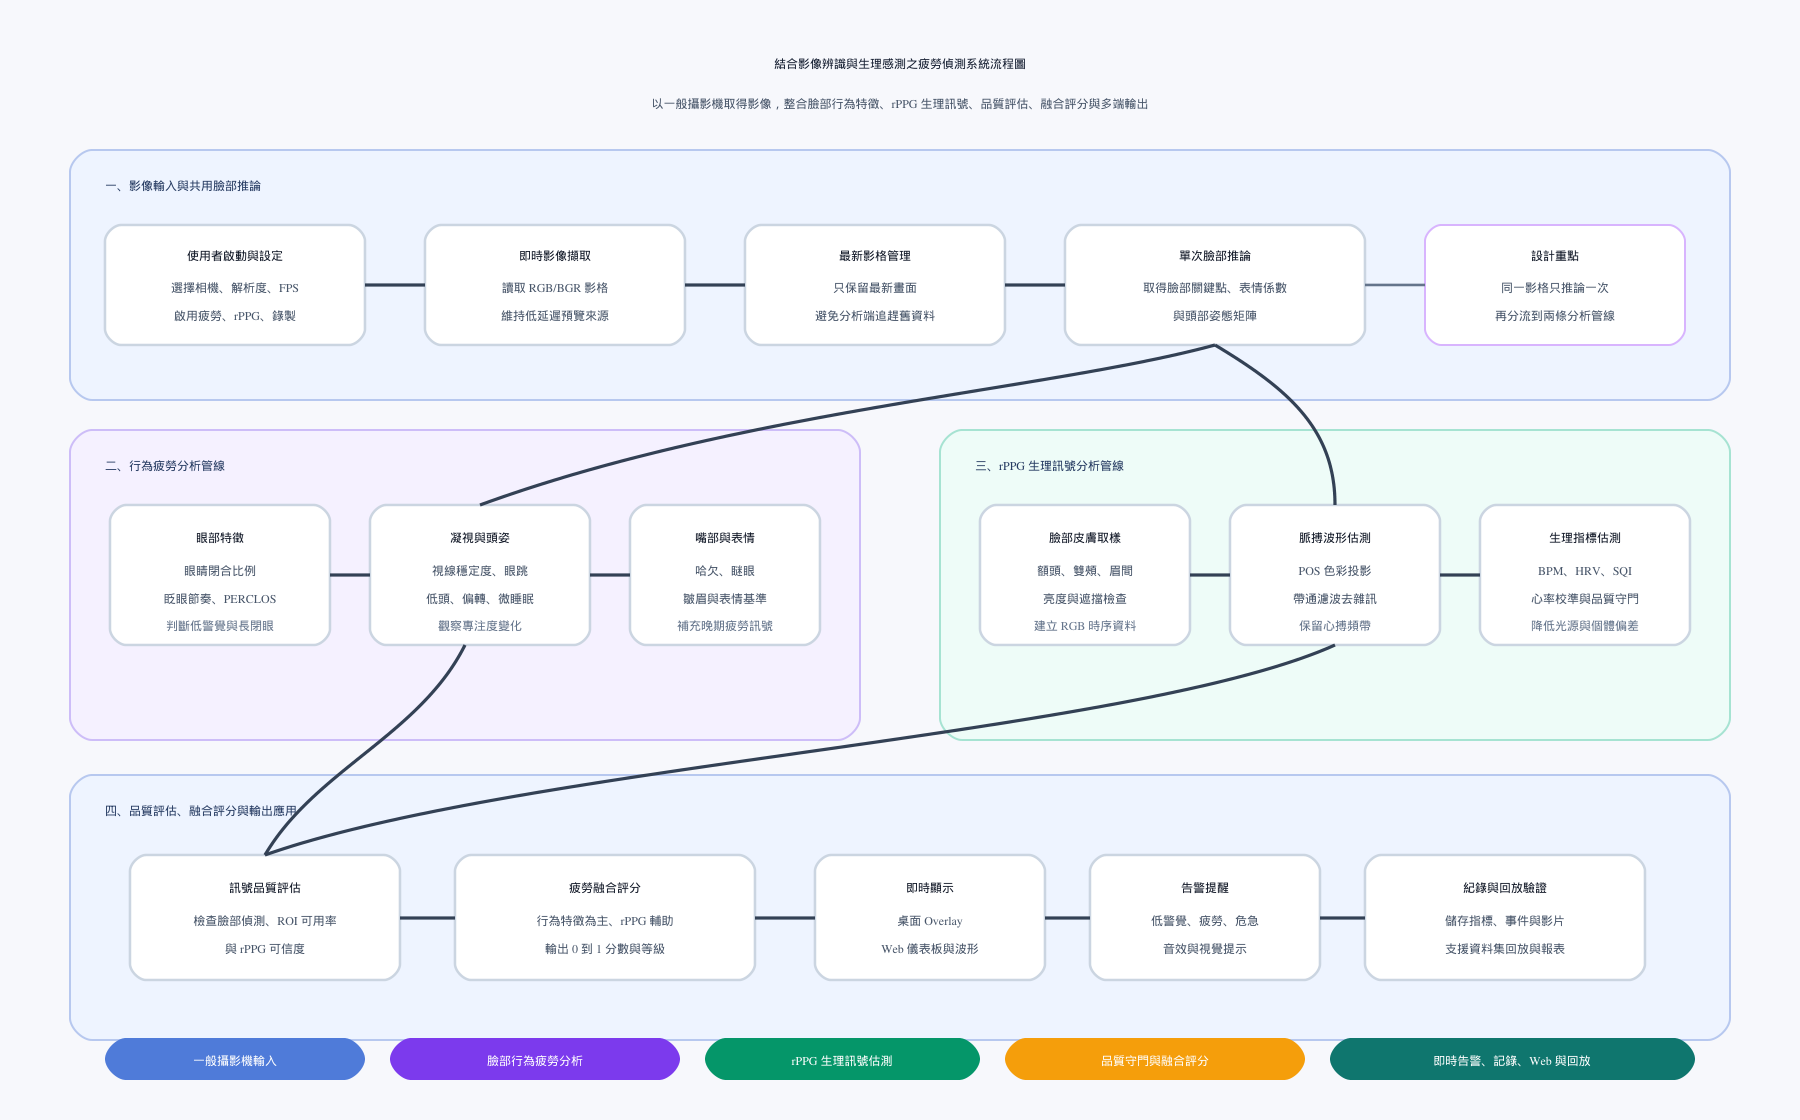
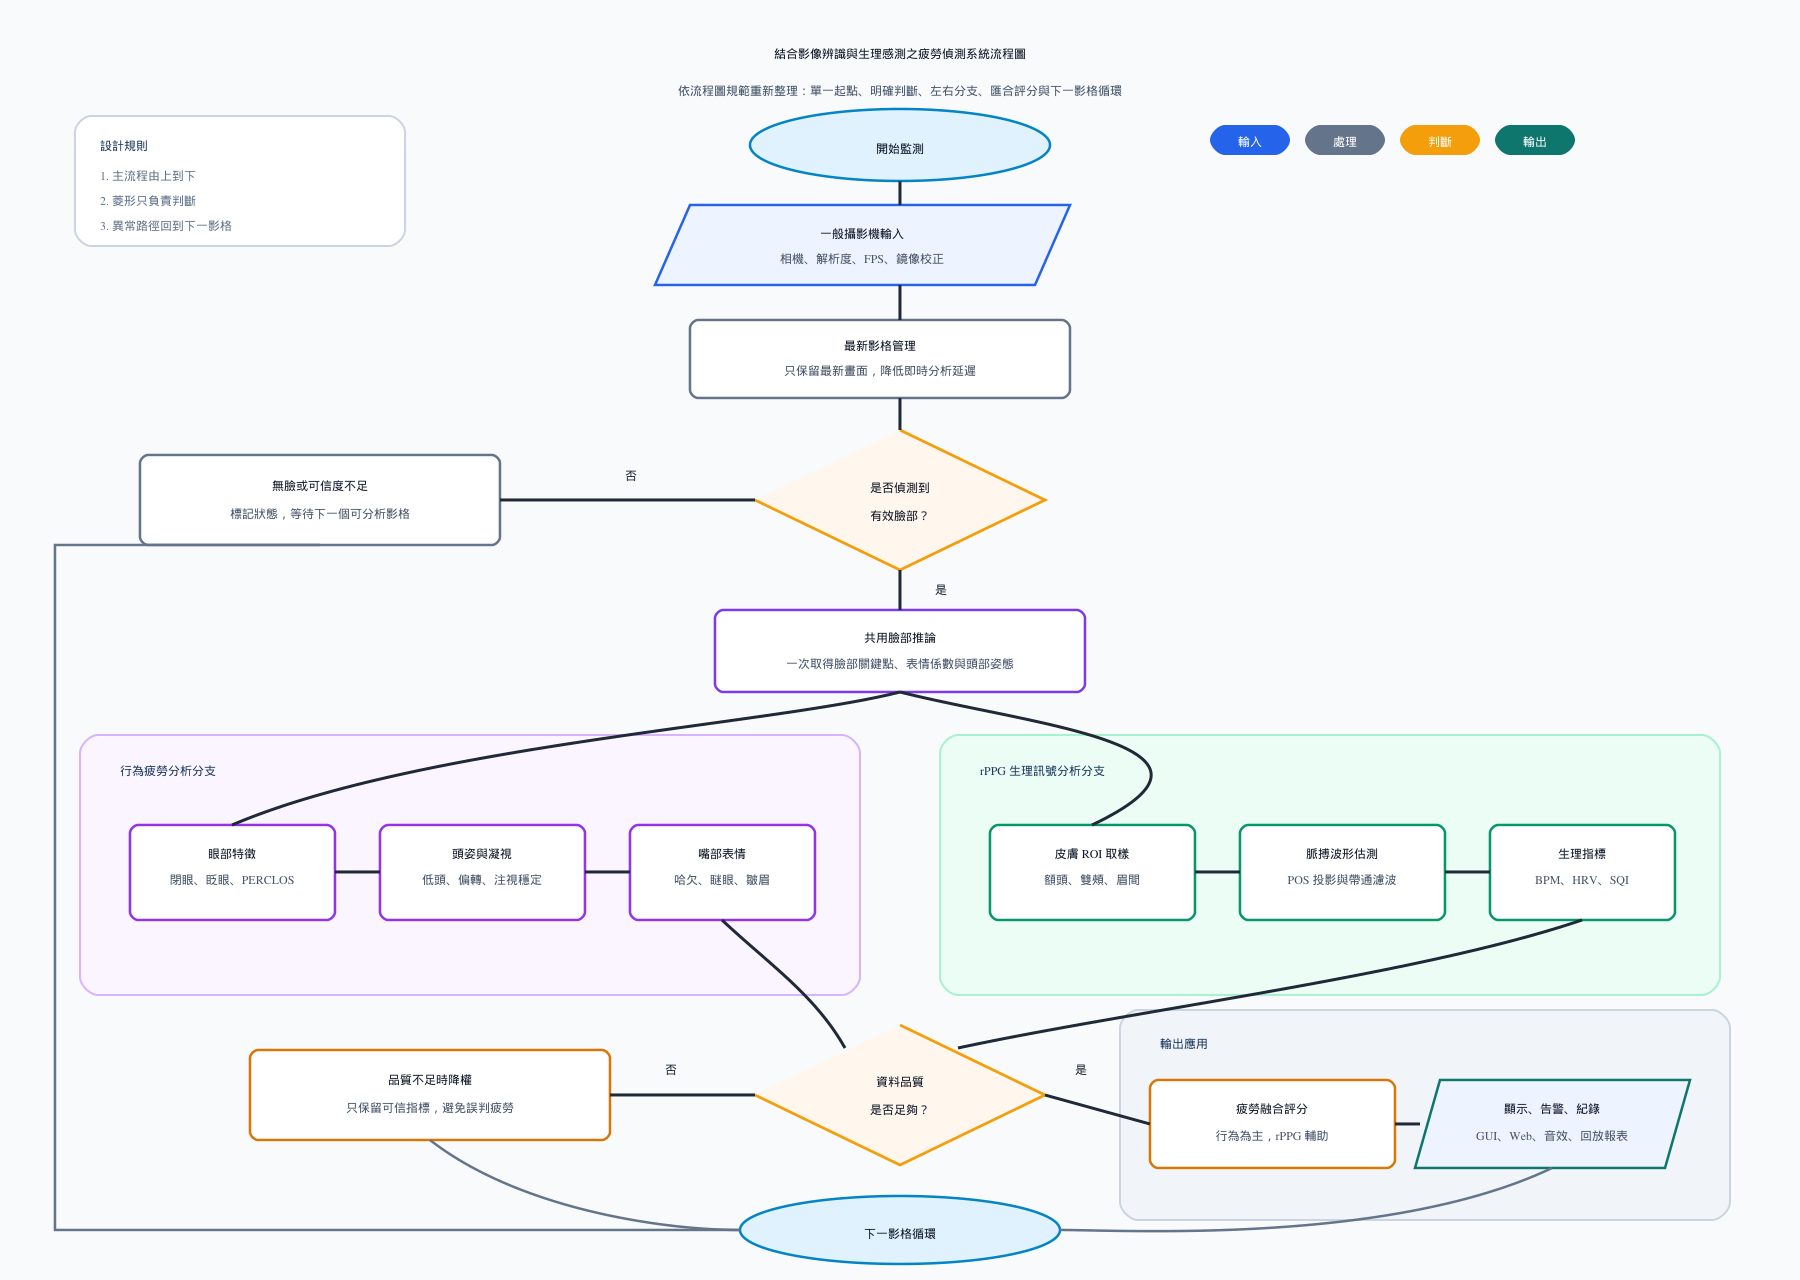
docs(canva): 依流程圖規範重設計系統流程圖

diff --git a/rppg-flowchart/src/intents/design_editor/app.tsx b/rppg-flowchart/src/intents/design_editor/app.tsx
@@ -12,7 +12,7 @@ import { FormattedMessage, useIntl } from "react-intl";
 import flowchartImage from "src/assets/system_flowchart_canva_preview.png";
 import * as styles from "styles/components.css";
 
-const FLOWCHART_ASPECT_RATIO = 1800 / 1120;
+const FLOWCHART_ASPECT_RATIO = 1800 / 1280;
 const FALLBACK_PAGE_WIDTH = 1280;
 const FALLBACK_PAGE_HEIGHT = 720;
 
